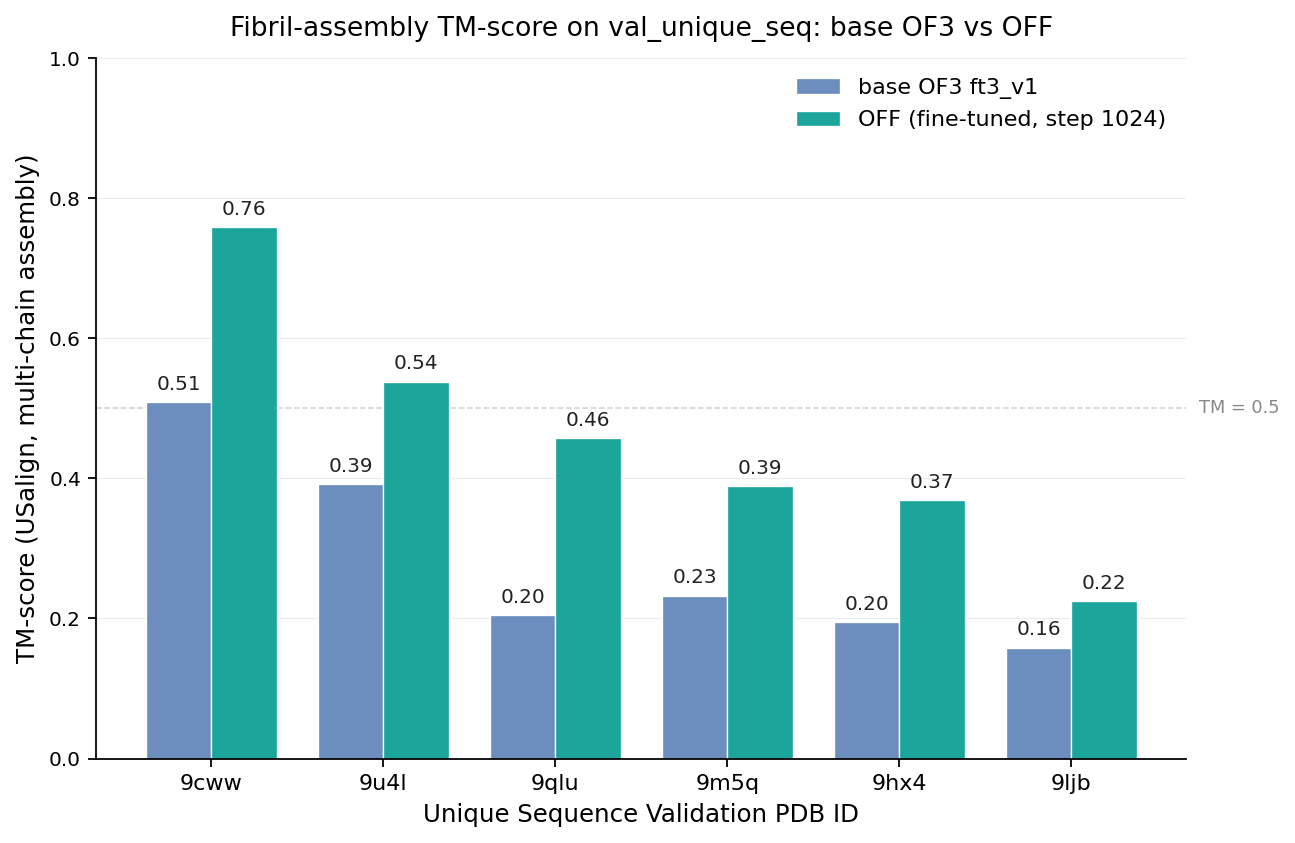
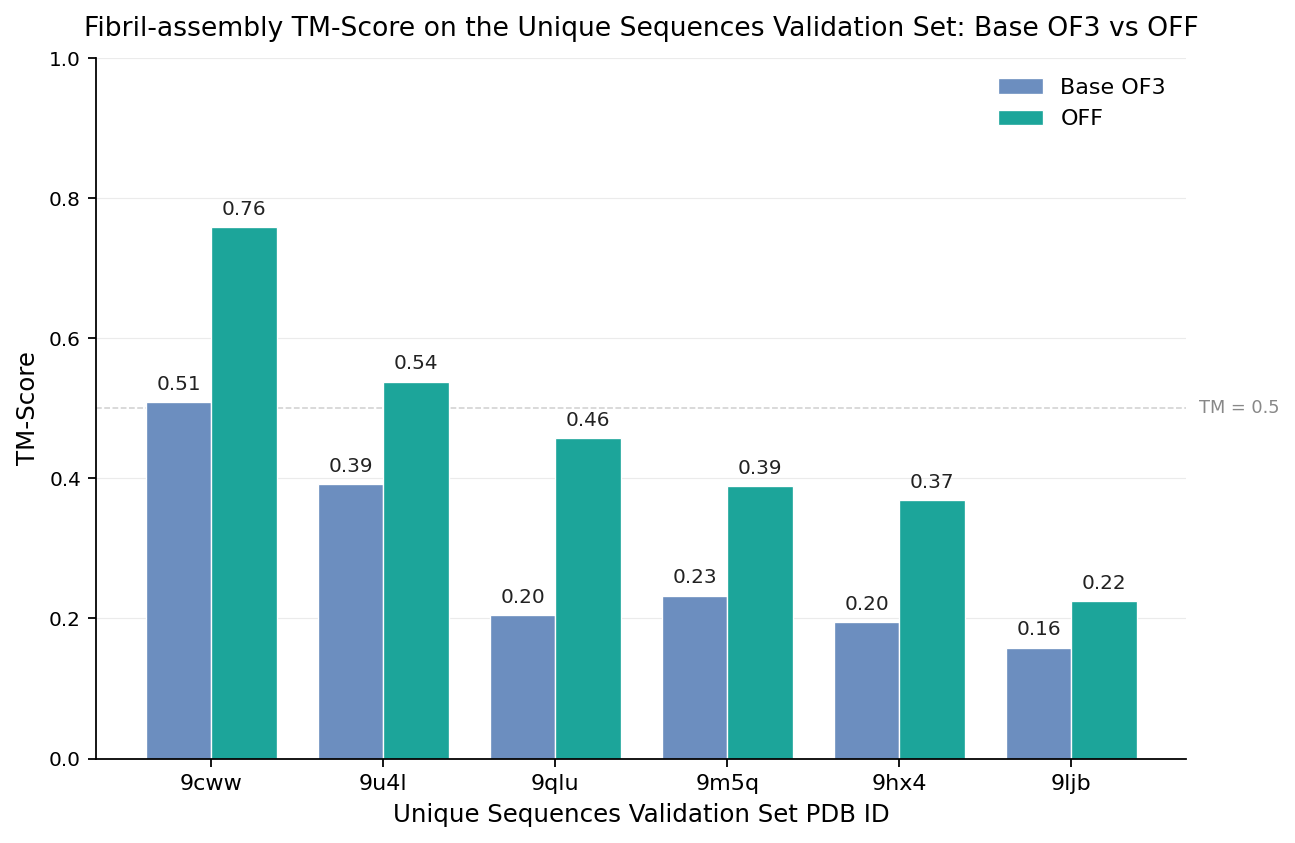
docs: rename val cohorts to 'Unique Sequences/Ligands Validation Set'
- Overview: drop the stray comma after [OpenFold3](…) in the lead sentence.
- Replace all reader-facing mentions of `val_unique_seq` / `val_ligand`
  with 'Unique Sequences Validation Set' / 'Unique Ligands Validation
  Set' in plain prose typeface (no backticks): the cohort blurb, the mean-
  TM table, the metrics table column headers, and every image alt-text.
- Regenerate figures/val_ligand_tm.png and figures/val_unique_seq_tm.png
  with the matching cohort names in the title / x-axis, legend stripped
  to just 'Base OF3' / 'OFF' (no '_ft3_v1' / 'fine-tuned, step 1024'
  suffixes), and y-axis simplified to 'TM-Score'.

Image filenames are kept as val_ligand_tm.png / val_unique_seq_tm.png —
filesystem paths, not reader-facing text.

diff --git a/README.md b/README.md
@@ -18,7 +18,7 @@
 
 ## Overview
 
-OpenFibrilFold (OFF) adapts [OpenFold3](https://github.com/aqlaboratory/openfold-3), to the structural prediction problem of amyloid fibrils. OFF attempts to fix model collapse when predicting fibrils in complex with stacked small molecule ligands. OFF introduces:
+OpenFibrilFold (OFF) adapts [OpenFold3](https://github.com/aqlaboratory/openfold-3) to the structural prediction problem of amyloid fibrils. OFF attempts to fix model collapse when predicting fibrils in complex with stacked small molecule ligands. OFF introduces:
 
 - a **ribbon-symmetric crop** that preserves both faces of the cross-β stack during training,
 - a **cross-ribbon distogram weight** that emphasizes the fold-defining inter-strand contacts,
@@ -27,25 +27,25 @@ OpenFibrilFold (OFF) adapts [OpenFold3](https://github.com/aqlaboratory/openfold
 
 ## Highlights
 
-We split the held-out fibril set into two cohorts with different difficulty profiles. `val_unique_seq` (n=6) holds rare-fold apo and ligand fibrils on sequences never seen during training, isolating performance on novel folds. `val_ligand` (n=7) is exclusively ligand-bound fibrils, where small-molecule pose prediction is the harder objective — numbers below are reported per-cohort, never aggregated.
+We split the held-out fibril set into two cohorts with different difficulty profiles. The Unique Sequences Validation Set (n=6) holds rare-fold apo and ligand fibrils on sequences never seen during training, isolating performance on novel folds. The Unique Ligands Validation Set (n=7) is exclusively ligand-bound fibrils, where small-molecule pose prediction is the harder objective — numbers below are reported per-cohort, never aggregated.
 
 <p align="center">
-  <img src="figures/val_ligand_tm.png" alt="Per-PDB fibril-assembly TM-score on val_ligand: base OF3 vs OFF (paired bars)" width="780" />
+  <img src="figures/val_ligand_tm.png" alt="Per-PDB fibril-assembly TM-score on the Unique Ligands Validation Set: Base OF3 vs OFF (paired bars)" width="780" />
 </p>
 
 <p align="center">
-  <img src="figures/val_unique_seq_tm.png" alt="Per-PDB fibril-assembly TM-score on val_unique_seq: base OF3 vs OFF (paired bars)" width="780" />
+  <img src="figures/val_unique_seq_tm.png" alt="Per-PDB fibril-assembly TM-score on the Unique Sequences Validation Set: Base OF3 vs OFF (paired bars)" width="780" />
 </p>
 
 **Mean TM-score per dataloader (USalign, multi-chain complex):**
 
-| dataloader | n | mean TM (OF3 base) | mean TM (OFF) | Δ |
+| Validation cohort | n | mean TM (OF3 base) | mean TM (OFF) | Δ |
 | --- | ---: | ---: | ---: | ---: |
-| `val_ligand`     | 7 | 0.376 | **0.610** | **+0.235** |
-| `val_unique_seq` | 6 | 0.282 | **0.456** | **+0.174** |
+| Unique Ligands Validation Set     | 7 | 0.376 | **0.610** | **+0.235** |
+| Unique Sequences Validation Set   | 6 | 0.282 | **0.456** | **+0.174** |
 
 <!-- METRICS_TABLE_START -->
-| Metric | OF3 base<br/>val_unique_seq | OFF<br/>val_unique_seq | OF3 base<br/>val_ligand | OFF<br/>val_ligand |
+| Metric | OF3 base<br/>Unique Sequences Validation Set | OFF<br/>Unique Sequences Validation Set | OF3 base<br/>Unique Ligands Validation Set | OFF<br/>Unique Ligands Validation Set |
 | --- | ---: | ---: | ---: | ---: |
 | **Structure (lDDT / TM, ↑)** |  |  |  |  |
 | Intra-protein lDDT | 0.477 | **0.538** | 0.477 | **0.679** |
@@ -79,7 +79,7 @@ Three held-out fibrils, viewed end-on (looking straight down the protofilament s
 
 <!-- HEAD_TO_HEAD_START -->
 <p align="center">
-  <img src="figures/h2h_grid.png" alt="3×3 head-to-head: OF3 base vs ground truth vs OFF on 9qlu (largest val_unique_seq ΔTM), 9ug1 (largest val_ligand ΔTM), 9ljb (smallest ΔTM in either val set)" width="780" />
+  <img src="figures/h2h_grid.png" alt="3×3 head-to-head: Base OF3 vs ground truth vs OFF on 9qlu (largest Unique Sequences Validation Set ΔTM), 9ug1 (largest Unique Ligands Validation Set ΔTM), 9ljb (smallest ΔTM in either set)" width="780" />
 </p>
 <!-- HEAD_TO_HEAD_END -->
 
